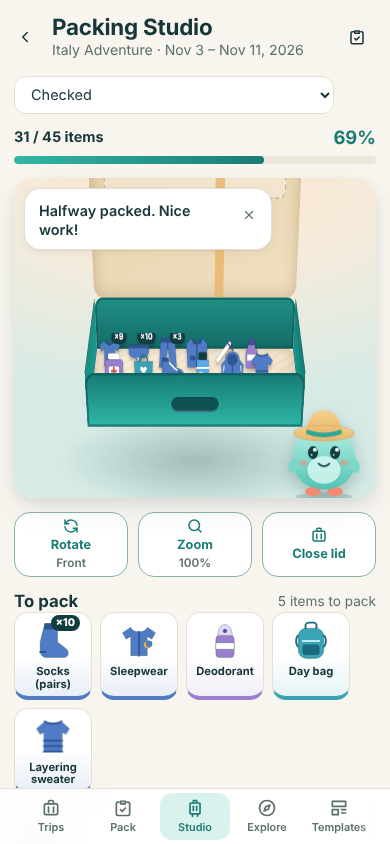
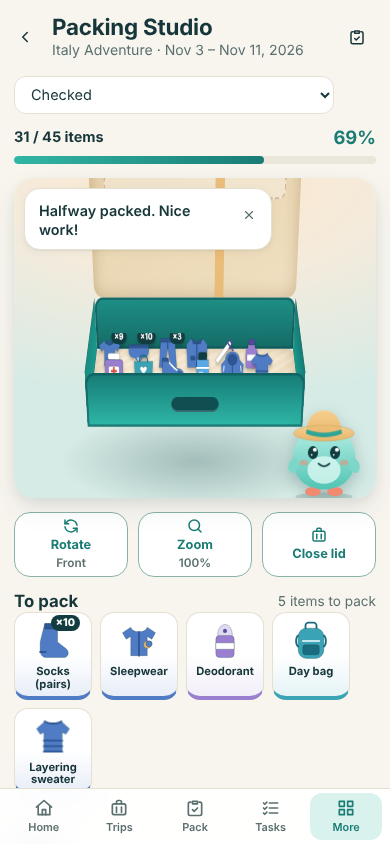
v1.9.1: back to five bottom tabs with a More menu
Eight sideways-scrolling tabs were too crowded on a phone. The bar is Home, Trips, Pack,
Tasks and More again; More opens Studio, Explore, Taste, My Guide, Templates and Settings
and stays highlighted while one of those screens is open. Desktop sidebar unchanged.
Scope-change review (v1.9.0) is kept. 121 unit, 99 e2e.

Claude-Session: https://claude.ai/code/session_01WaxbE4aP8rbWk7Rjn5pK1V

diff --git a/js/main.js b/js/main.js
@@ -24,17 +24,19 @@ import { PrintScreen } from './screens/print.js';
 import { TemplatesScreen } from './screens/templates.js';
 import { SummaryScreen } from './screens/summary.js';
 import { SettingsScreen } from './screens/settings.js';
+import { MoreScreen } from './screens/more.js';
 import { WelcomeScreen } from './screens/welcome.js';
 
 const NAV = [
   { id: 'home', href: '#/', short: 'Home', long: 'Dashboard', icon: 'home' },
   { id: 'trips', href: '#/trips', short: 'Trips', long: 'My Trips', icon: 'suitcase' },
   { id: 'pack', href: '#/pack', short: 'Pack', long: 'Packing List', icon: 'pack' },
-  { id: 'studio', href: '#/studio', short: 'Studio', long: 'Packing Studio', icon: 'luggage' },
-  { id: 'explore', href: '#/explore', short: 'Explore', long: 'Explore', icon: 'compass' },
-  { id: 'templates', href: '#/templates', short: 'Templates', long: 'Templates', icon: 'template' },
+  { id: 'studio', href: '#/studio', short: 'Studio', long: 'Packing Studio', icon: 'luggage', desktopOnly: true },
+  { id: 'explore', href: '#/explore', short: 'Explore', long: 'Explore', icon: 'compass', desktopOnly: true },
+  { id: 'templates', href: '#/templates', short: 'Templates', long: 'Templates', icon: 'template', desktopOnly: true },
   { id: 'tasks', href: '#/tasks', short: 'Tasks', long: 'Travel Tasks', icon: 'tasks' },
-  { id: 'settings', href: '#/settings', short: 'Settings', long: 'Settings', icon: 'sliders' },
+  { id: 'settings', href: '#/settings', short: 'Settings', long: 'Settings', icon: 'sliders', desktopOnly: true },
+  { id: 'more', href: '#/more', short: 'More', long: 'More', icon: 'more', mobileOnly: true },
 ];
 
 /**
@@ -102,7 +104,7 @@ function buildShell() {
     'nav',
     { class: 'nav', 'aria-label': 'Main' },
     h('a', { class: 'nav-brand', href: '#/', 'aria-label': 'PackWise home' }, logoMark({ size: 34 }), h('span', {}, 'Pack', h('b', { text: 'Wise' }))),
-    h('div', { class: 'nav-wrap' }, h('ul', { class: 'nav-list' }, NAV.map((n) => h('li', {}, h('a', { class: 'nav-item', href: n.href, 'data-nav': n.id }, icon(n.icon, { size: 20 }), h('span', { class: 'nav-short', text: n.short }), h('span', { class: 'nav-long', text: n.long })))))),
+    h('ul', { class: 'nav-list' }, NAV.map((n) => h('li', { class: n.desktopOnly ? 'hide-mobile' : n.mobileOnly ? 'hide-sidebar' : '' }, h('a', { class: 'nav-item', href: n.href, 'data-nav': n.id }, icon(n.icon, { size: 20 }), h('span', { class: 'nav-short', text: n.short }), h('span', { class: 'nav-long', text: n.long }))))),
     h('div', { class: 'nav-foot' }, destinationArt('beach', { className: 'nav-foot-art' }), h('p', { text: 'Collect trips, not things.' })),
   );
   const banners = h('div', { class: 'banners' });
@@ -235,19 +237,10 @@ async function boot() {
     { path: '/studio', name: 'studio-home', nav: 'studio', screen: StudioRedirectScreen },
     { path: '/pack', name: 'pack', nav: 'pack', screen: PackRedirectScreen },
     { path: '/tasks', name: 'tasks-home', nav: 'tasks', screen: TasksRedirectScreen },
+    { path: '/more', name: 'more', nav: 'more', screen: MoreScreen },
     { path: '/settings', name: 'settings', nav: 'settings', screen: SettingsScreen },
     { path: '/404', name: 'notfound', nav: null, screen: NotFound },
   ];
-
-  // phone bottom bar: every destination is a tab; it scrolls sideways, keeps the current tab in view and fades at an overflowing edge
-  const navList = nav.querySelector('.nav-list');
-  const navWrap = nav.querySelector('.nav-wrap');
-  const navHints = () => {
-    navWrap.dataset.moreLeft = String(navList.scrollLeft > 4);
-    navWrap.dataset.moreRight = String(navList.scrollLeft + navList.clientWidth < navList.scrollWidth - 4);
-  };
-  navList.addEventListener('scroll', navHints, { passive: true });
-  window.addEventListener('resize', navHints);
 
   const router = createRouter({
     routes,
@@ -257,12 +250,11 @@ async function boot() {
     onRoute(route) {
       shell.dataset.chrome = route.chrome === false ? 'none' : 'full';
       nav.querySelectorAll('[data-nav]').forEach((a) => {
-        const active = a.dataset.nav === route.nav;
+        // on a phone Studio, Explore, Templates and Settings live in the More menu, so More stays highlighted there
+        const active = a.dataset.nav === route.nav || (a.dataset.nav === 'more' && ['studio', 'explore', 'templates', 'settings'].includes(route.nav));
         if (active) a.setAttribute('aria-current', 'page');
         else a.removeAttribute('aria-current');
-        if (active && navList.scrollWidth > navList.clientWidth) navList.scrollLeft = a.offsetLeft - (navList.clientWidth - a.offsetWidth) / 2; // instant, no animation to respect
       });
-      navHints();
     },
   });
 

diff --git a/css/layout.css b/css/layout.css
@@ -42,56 +42,14 @@
 }
 
 .nav-list {
-  display: flex;
-  gap: 2px;
-  margin: 0;
-  overflow-x: auto;
-  overscroll-behavior-x: contain;
-  scroll-snap-type: x proximity;
-  scrollbar-width: none;
-}
-
-.nav-list::-webkit-scrollbar {
-  display: none;
-}
-
-/* the bottom bar scrolls sideways so every destination is a tab; a soft fade shows there is more */
-.nav-wrap {
-  position: relative;
-}
-
-.nav-wrap::before,
-.nav-wrap::after {
-  content: '';
-  position: absolute;
-  top: 0;
-  bottom: 0;
-  z-index: 1;
-  width: 22px;
-  opacity: 0;
-  pointer-events: none;
-  transition: opacity var(--dur) var(--ease);
-}
-
-.nav-wrap::before {
-  left: 0;
-  background: linear-gradient(90deg, var(--surface), transparent);
-}
-
-.nav-wrap::after {
-  right: 0;
-  background: linear-gradient(270deg, var(--surface), transparent);
-}
-
-.nav-wrap[data-more-left='true']::before,
-.nav-wrap[data-more-right='true']::after {
-  opacity: 1;
+  display: grid;
+  grid-template-columns: repeat(5, 1fr);
+  gap: 4px;
+  max-width: 560px;
+  margin: 0 auto;
 }
 
 .nav-item {
-  flex: 1 0 auto;
-  min-width: 70px;
-  scroll-snap-align: center;
   display: flex;
   flex-direction: column;
   align-items: center;
@@ -186,21 +144,15 @@
     color: var(--accent-strong);
   }
 
-  .nav-wrap::before,
-  .nav-wrap::after {
-    display: none;
-  }
-
   .nav-list {
     display: flex;
     flex-direction: column;
     gap: 4px;
-    overflow: visible;
+    max-width: none;
+    margin: 0;
   }
 
   .nav-item {
-    min-width: 0;
-    flex: 0 0 auto;
     flex-direction: row;
     gap: 12px;
     padding: 11px 14px;
@@ -256,6 +208,13 @@
 
 @media (max-width: 1099px) {
   .hide-mobile-add {
+    display: none !important;
+  }
+}
+
+/* hidden whenever the side navigation is showing (>= 900px) */
+@media (min-width: 900px) {
+  .hide-sidebar {
     display: none !important;
   }
 }

diff --git a/js/screens/more.js b/js/screens/more.js
@@ -1,0 +1,32 @@
+// "More" (mobile): everything the desktop sidebar offers that does not fit in the bottom bar.
+import { h } from '../dom.js';
+import { icon } from '../ui/icons.js';
+import { pageHeader } from './shared.js';
+import { getTrip, sortedTrips } from '../selectors.js';
+
+export function MoreScreen(ctx) {
+  const { store } = ctx;
+  return {
+    title: 'More',
+    build() {
+      const last = getTrip(store.state, ctx.lastTrip());
+      const trip = last && last.status === 'active' ? last : sortedTrips(store.state, 'active')[0];
+      const t = (suffix) => (trip ? `#/trip/${trip.id}${suffix}` : '#/trips/new');
+      const item = (href, ic, title, text) => h('li', {}, h('a', { class: 'more-item', href }, h('span', { class: 'more-icon' }, icon(ic, { size: 22 })), h('span', { class: 'more-text' }, h('strong', { text: title }), h('span', { class: 'muted small', text: text })), icon('chevR', { size: 18, class: 'chev' })));
+      const where = trip ? ` for ${trip.name}` : '';
+      return h(
+        'div',
+        { class: 'screen more-screen' },
+        pageHeader({ title: 'More', subtitle: trip ? trip.name : 'Everything else PackWise can do' }),
+        h('ul', { class: 'more-list card' },
+          item(t('/studio'), 'luggage', 'Packing Studio', `Drop items into a 3D suitcase${where}`),
+          item(t('/explore'), 'compass', 'Explore', `Places to see${where}, or add your own`),
+          item(t('/taste'), 'utensils', 'Taste', `Local food and drinks${where}`),
+          item(t('/guide'), 'heart', 'My Guide', `Saved places and dishes, day plan${where}`),
+          item('#/templates', 'template', 'Templates', 'Start a trip from a saved list'),
+          item('#/settings', 'sliders', 'Settings', 'Theme, colors, backup, preferences'),
+        ),
+      );
+    },
+  };
+}

diff --git a/css/screens.css b/css/screens.css
@@ -1647,6 +1647,47 @@ html[data-bg='minimal'] .trip-card {
   contain-intrinsic-size: auto 62px;
 }
 
+/* More (mobile menu) */
+.more-list {
+  display: flex;
+  flex-direction: column;
+  margin: 0;
+  padding: 4px 8px;
+  list-style: none;
+}
+
+.more-item {
+  display: flex;
+  align-items: center;
+  gap: 12px;
+  padding: 12px 6px;
+  border-top: 1px solid var(--line);
+  color: inherit;
+  text-decoration: none;
+}
+
+.more-list li:first-child .more-item {
+  border-top: 0;
+}
+
+.more-icon {
+  display: grid;
+  place-items: center;
+  flex: none;
+  width: 40px;
+  height: 40px;
+  border-radius: 12px;
+  background: var(--tone-teal);
+  color: var(--tone-teal-ink);
+}
+
+.more-text {
+  display: flex;
+  flex: 1;
+  flex-direction: column;
+  min-width: 0;
+}
+
 /* scope question banner */
 .scope-ask {
   align-items: center;

diff --git a/sw.js b/sw.js
@@ -1,6 +1,6 @@
 /* PackWise service worker: versioned app-shell precache, cache-first, offline-ready.
  * Bump CACHE_VERSION (and APP_VERSION in js/models.js) with every release. */
-const CACHE_VERSION = 'packwise-v1.9.0';
+const CACHE_VERSION = 'packwise-v1.9.1';
 
 const PRECACHE = [
   './',
@@ -53,6 +53,7 @@ const PRECACHE = [
   'js/screens/pack.js',
   'js/screens/summary.js',
   'js/screens/settings.js',
+  'js/screens/more.js',
   'js/screens/studio.js',
   'js/screens/explore.js',
   'js/screens/taste.js',

diff --git a/js/models.js b/js/models.js
@@ -1,7 +1,7 @@
 // Data models, enums, factories and normalizers. Pure: no DOM, no storage.
 
 export const SCHEMA_VERSION = 3; // v2 added guide `entries`; v3 adds user-written `custom` entries (label / sub / type)
-export const APP_VERSION = '1.9.0';
+export const APP_VERSION = '1.9.1';
 
 export const CATEGORY_PRESETS = [
   { id: 'clothing', label: 'Clothing', icon: 'shirt' },

diff --git a/docs/KNOWN_LIMITATIONS.md b/docs/KNOWN_LIMITATIONS.md
@@ -20,7 +20,7 @@ Honest list of what PackWise does **not** do, so nobody has to find out the hard
 ## Platform
 - **Storage** is IndexedDB in the browser. Clearing site data, private windows or low disk can erase trips; export a backup regularly (Settings → Data). There is no sync between devices.
 - Tested in **Chromium only** (Playwright). Safari/iOS and Firefox rendering, real-device install, haptics and screen readers (VoiceOver, NVDA, TalkBack) were not run by hand. Automated checks cover accessible names, headings, focus, contrast tokens and overflow at five viewport sizes.
-- The phone bottom bar scrolls sideways (8 tabs); the current tab is kept in view and edges fade when more tabs are off screen.
+- The phone bottom bar has five tabs (Home, Trips, Pack, Tasks, More). *More* opens a menu with Packing Studio, Explore, Taste, My Guide, Templates and Settings; the desktop sidebar lists everything directly.
 - **Offline**: the app shell, guides and your data work offline after the first load. Updates need one online visit; the update prompt appears when a new version is ready.
 - `content-visibility: auto` is used on long checklist rows; very old browsers ignore it and simply render everything.
 - Pointer drag-reorder is supported; the buttons, selects and Alt+Arrow keys are the keyboard/screen-reader path.

diff --git a/docs/DEVELOPMENT_HANDOFF.md b/docs/DEVELOPMENT_HANDOFF.md
@@ -57,7 +57,7 @@ Last updated: end of **Phase 3 (hardening, settings, release prep)** (smart trav
 ## v1.9.0: limits closed
 
 - **Scope change rewrites existing lists, on request**: `planScopeChange(scope, {tasks, items})` (pure, `templates.js`) plans add / remove / rename for generated reminders in both directions; `store.applyScopeChanges` / `undoScopeChanges` apply and revert them; `reviewScopeChange()` (`screens/shared.js`) shows a tick-list dialog after the edit form or the scope question banner. Nothing is changed without Apply; packed items, completed tasks and user-written entries are never touched.
-- **Phone navigation**: the bottom bar now has a tab for every destination (Home, Trips, Pack, Studio, Explore, Templates, Tasks, Settings) and scrolls sideways (`.nav-wrap` / `.nav-list`, edge fades via `data-more-left/right`, current tab auto-centred, focus scrolls into view). The More menu was removed. Desktop sidebar unchanged.
+- **Phone navigation**: an eight-tab sideways-scrolling bar was tried and rejected as too crowded; the bar is back to five tabs with a *More* menu (`screens/more.js`) holding Studio, Explore, Taste, My Guide, Templates and Settings. Desktop sidebar unchanged.
 
 ## v1.8.0: review fixes from a phone
 

diff --git a/README.md b/README.md
@@ -65,7 +65,7 @@ The guide switch has a third tab, **My Guide**: everything saved from Places and
 - **Background colors:** Settings → Appearance has separate color choices for light mode (7) and dark mode (6); each applies only in its own mode, also when the theme is "System".
 - **Destinations without a built-in guide** (for example a small town or a trail) now get a *Plan it yourself* page: add **your own places** (name, type, area, note), which appear in My Guide with days, packing ideas and exports, plus search links for each stop. PackWise still shows no invented data for them.
 
-## Status: v1.9.0
+## Status: v1.9.1
 
 All planned phases are complete: packing (lists, bags, Studio, templates, tasks, return trips, backup), then the Destination Discovery plan (Explore, Taste, My Guide) and a feedback round (item pictures, category colors, trip scope, background colors, own places). Read `docs/KNOWN_LIMITATIONS.md` before relying on the destination content, and `docs/PRIVACY.md` for what is stored and linked.
 
